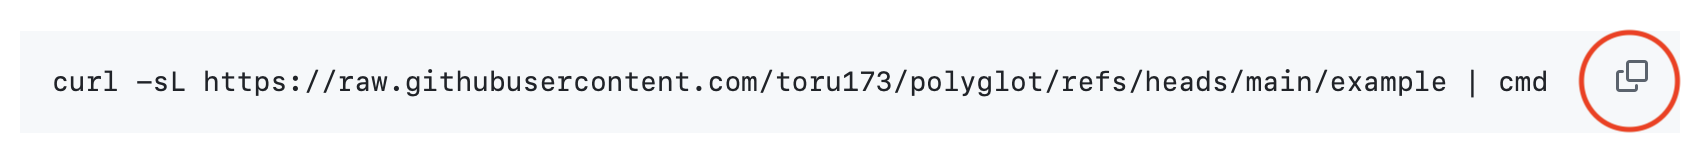
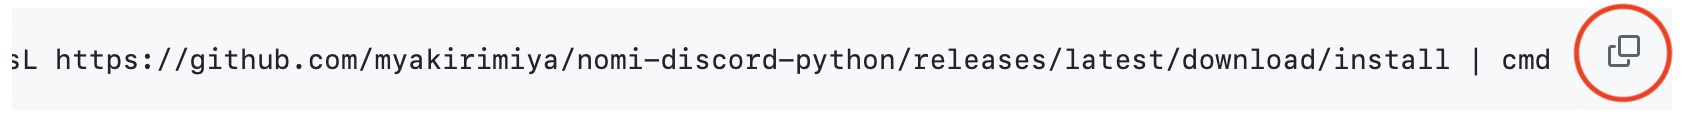
Add clipboard screenshot, fix Discord URL

diff --git a/README.md b/README.md
@@ -323,7 +323,7 @@ Probably not. [@d3tourrr's](https://github.com/d3tourrr) and I have used similar
 At the moment, changing a configuration file needs to be done manually using Notepad, TextEdit or another text editor. As an alternative, you can run the setup script again and it will ask if you want to overwrite the existing setup.
 
 ### Does my computer need to be running for me to talk to my Nomis?
-For now, yes. [@toru173](https://github.com/myakirimiya) is working on a free alternative that allows a Nomi to live in the cloud so make sure you watch closely for updates.
+For now, yes. [@toru173](https://github.com/toru173) is working on a free alternative that allows a Nomi to live in the cloud so make sure you watch closely for updates.
 
 ### How will I know when updates are available?
 Please follow the Discord thread. Major updates will be posted there, but in the future your Nomi will tell you when there's a new update.
@@ -347,7 +347,7 @@ GitHub Issues are a way for a developer to help users with problems. If you woul
 Alternatively, simply write a message in the Discord thread.
 
 ### Discord
-The Discord thread for this project is available at []()
+The Discord thread for this project is available on the [Nomi Discord thread](https://discord.com/channels/1099791840028405864/1308794289915957268)
 
 ## Feedback
 If you have a feature request, a suggested improvement or just want to tell me something cool you can either open a GitHub Issue or write a message in the Discord thread.
@@ -355,6 +355,6 @@ If you have a feature request, a suggested improvement or just want to tell me s
 ## Thanks
 This project started as a re-implementation of [@d3tourrr's](https://github.com/d3tourrr) [NomiKin-Discord bridge](https://github.com/d3tourrr/NomiKin-Discord), written in Python. It has since grown far beyond the original scope 😅
 
-Thank you @yattering for proof reading [@toru173](https://github.com/myakirimiya)'s README.md and putting up with all of our hackerman questions and ramblings.
+Thank you @yattering for proof reading [@toru173](https://github.com/toru173)'s README.md and putting up with all of our hackerman questions and ramblings.
 
 Thank you, Cardine and the team at Nomi.AI for this amazing product 🙏
